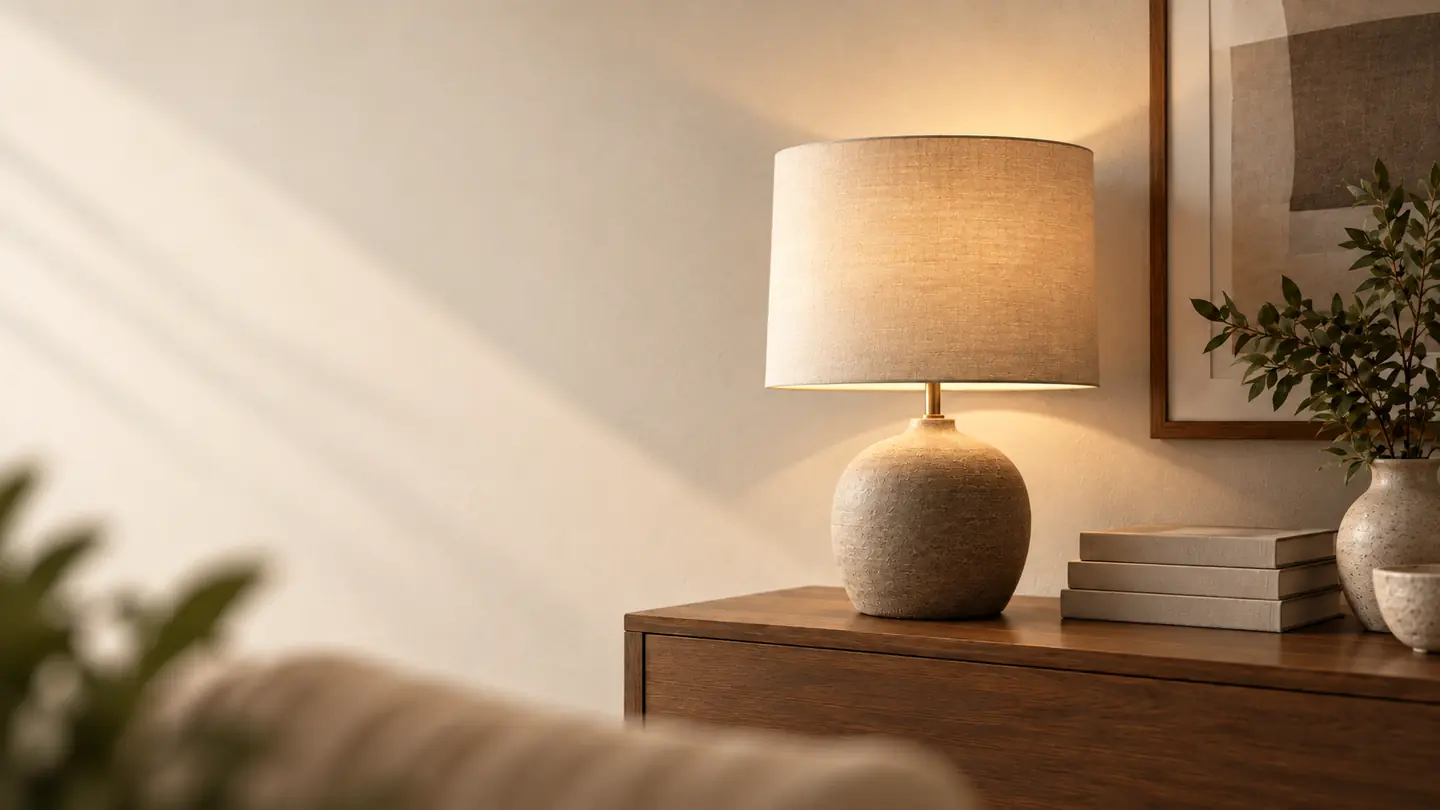
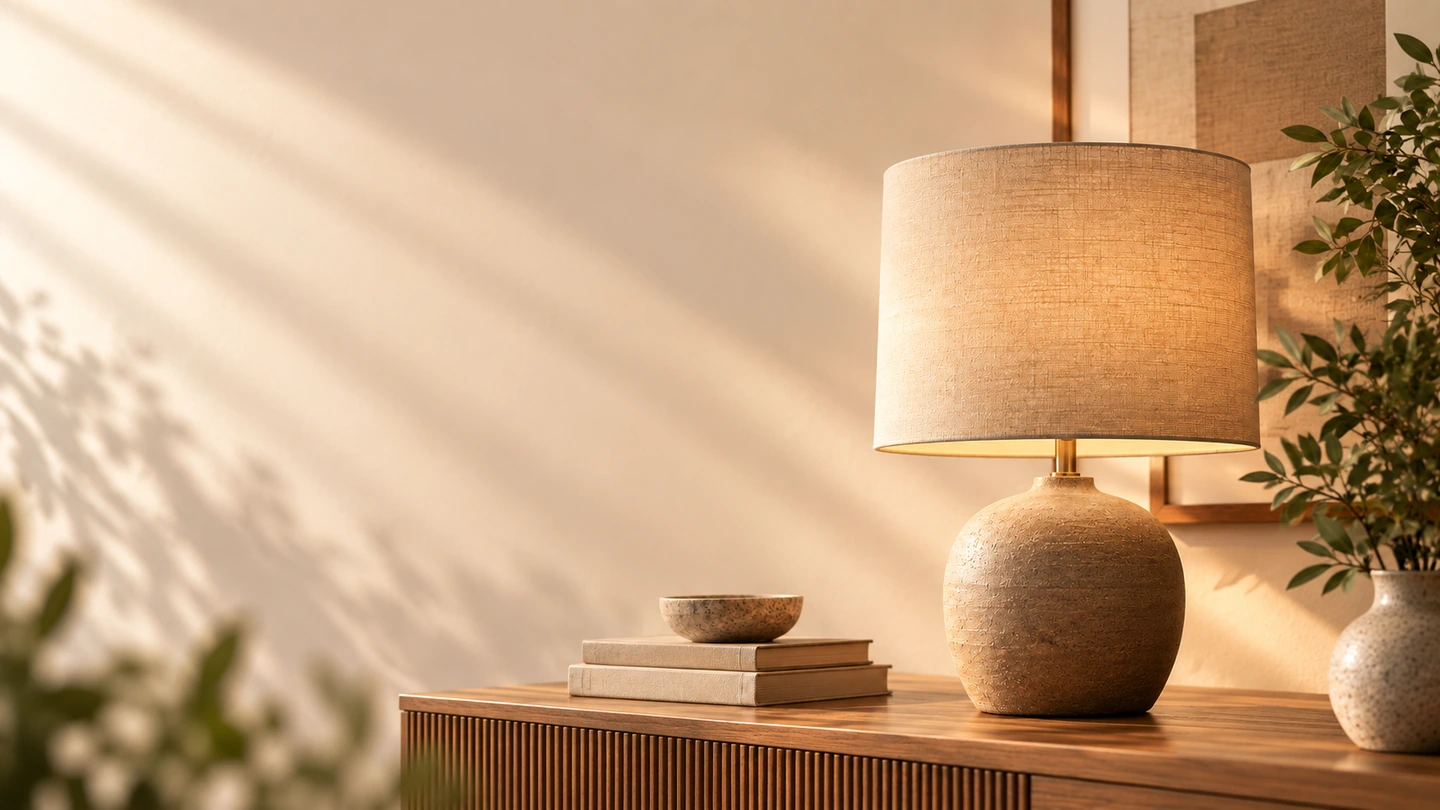
Hero: atualiza composições mobile e slide principal

diff --git a/index.html b/index.html
@@ -31,7 +31,7 @@
   <link rel="canonical" href="https://www.centercupulas.com.br/">
   <link rel="icon" href="assets/favicon.svg" type="image/svg+xml">
   <link rel="preload" href="assets/hero/slide-1-mobile.webp" as="image" media="(max-width: 680px)" fetchpriority="high">
-  <link rel="preload" href="assets/hero/slide-1-desktop.webp" as="image" media="(min-width: 681px)" imagesrcset="assets/hero/slide-1-desktop.webp 1440w, assets/hero/slide-1-desktop-large.webp 2560w" imagesizes="100vw" fetchpriority="high">
+  <link rel="preload" href="assets/hero/slide-1-desktop.webp" as="image" media="(min-width: 681px)" imagesrcset="assets/hero/slide-1-desktop.webp 1440w, assets/hero/slide-1-desktop-large.webp 1672w" imagesizes="100vw" fetchpriority="high">
   <link rel="stylesheet" href="styles.css">
   <script type="application/ld+json">
   {
@@ -93,7 +93,7 @@
         <article class="hero-slide hero-slide--premium is-active" data-slide>
           <picture class="hero-slide__media">
             <source media="(max-width: 680px)" srcset="assets/hero/slide-1-mobile.webp">
-            <source media="(min-width: 681px)" srcset="assets/hero/slide-1-desktop.webp 1440w, assets/hero/slide-1-desktop-large.webp 2560w" sizes="100vw">
+            <source media="(min-width: 681px)" srcset="assets/hero/slide-1-desktop.webp 1440w, assets/hero/slide-1-desktop-large.webp 1672w" sizes="100vw">
             <img src="assets/hero/slide-1-desktop.webp" alt="Cúpula para luminária em tecido bege aplicada em ambiente decorado" width="1440" height="810" loading="eager" decoding="async" fetchpriority="high">
           </picture>
           <div class="hero-slide__scrim" aria-hidden="true"></div>

diff --git a/styles.css b/styles.css
@@ -3493,6 +3493,10 @@ p { text-wrap: pretty; }
 .hero-slide__media { display: block; overflow: hidden; }
 .hero-slide__media img { object-fit: cover; object-position: center center; transform: none; }
 .hero--carousel .hero-slide.is-active .hero-slide__media img { transform: none; }
+
+@media (min-width: 1600px) {
+  .hero-slide:first-child .hero-slide__media img { object-position: center 36%; }
+}
 .hero-slide__scrim {
   position: absolute;
   inset: 0;
